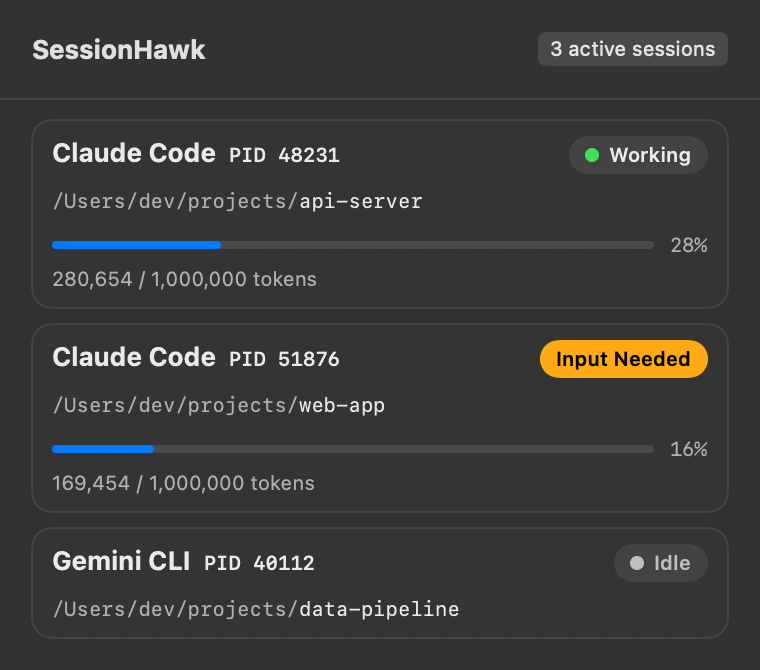
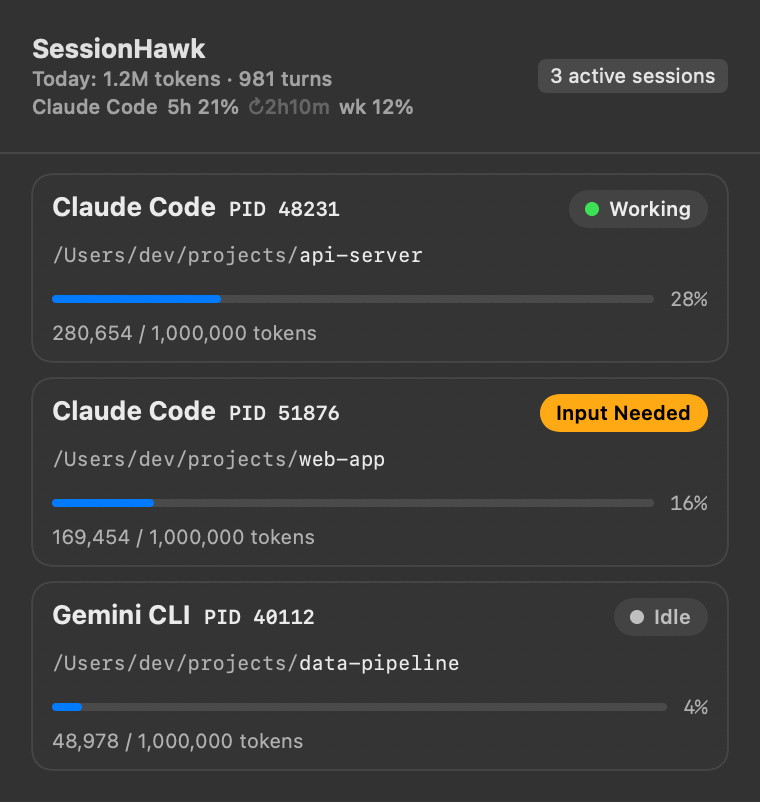
v0.4.0: version bump + refreshed README screenshot with limits header

diff --git a/scripts/gen-screenshot.swift b/scripts/gen-screenshot.swift
@@ -22,14 +22,28 @@ let sessions = [
     ),
     AgentSession(
         pid: 40112, provider: .gemini, state: .idle,
+        tokenUsage: TokenUsage(inputTokens: 48_040, outputTokens: 938, totalLimit: 1_000_000),
         workingDirectory: "/Users/dev/projects/data-pipeline"
     ),
 ]
 
 let header = HStack {
-    Text("SessionHawk")
-        .font(.headline)
-        .fontWeight(.bold)
+    VStack(alignment: .leading, spacing: 1) {
+        Text("SessionHawk")
+            .font(.headline)
+            .fontWeight(.bold)
+        Text("Today: 1.2M tokens · 981 turns")
+            .font(.caption2)
+            .foregroundStyle(.secondary)
+        HStack(spacing: 4) {
+            Text("Claude Code").foregroundStyle(.secondary)
+            Text("5h 21%")
+            Text("↻2h10m").foregroundStyle(.tertiary)
+            Text("wk 12%")
+        }
+        .font(.caption2)
+        .foregroundStyle(.secondary)
+    }
     Spacer()
     Text("\(sessions.count) active sessions")
         .font(.caption)
